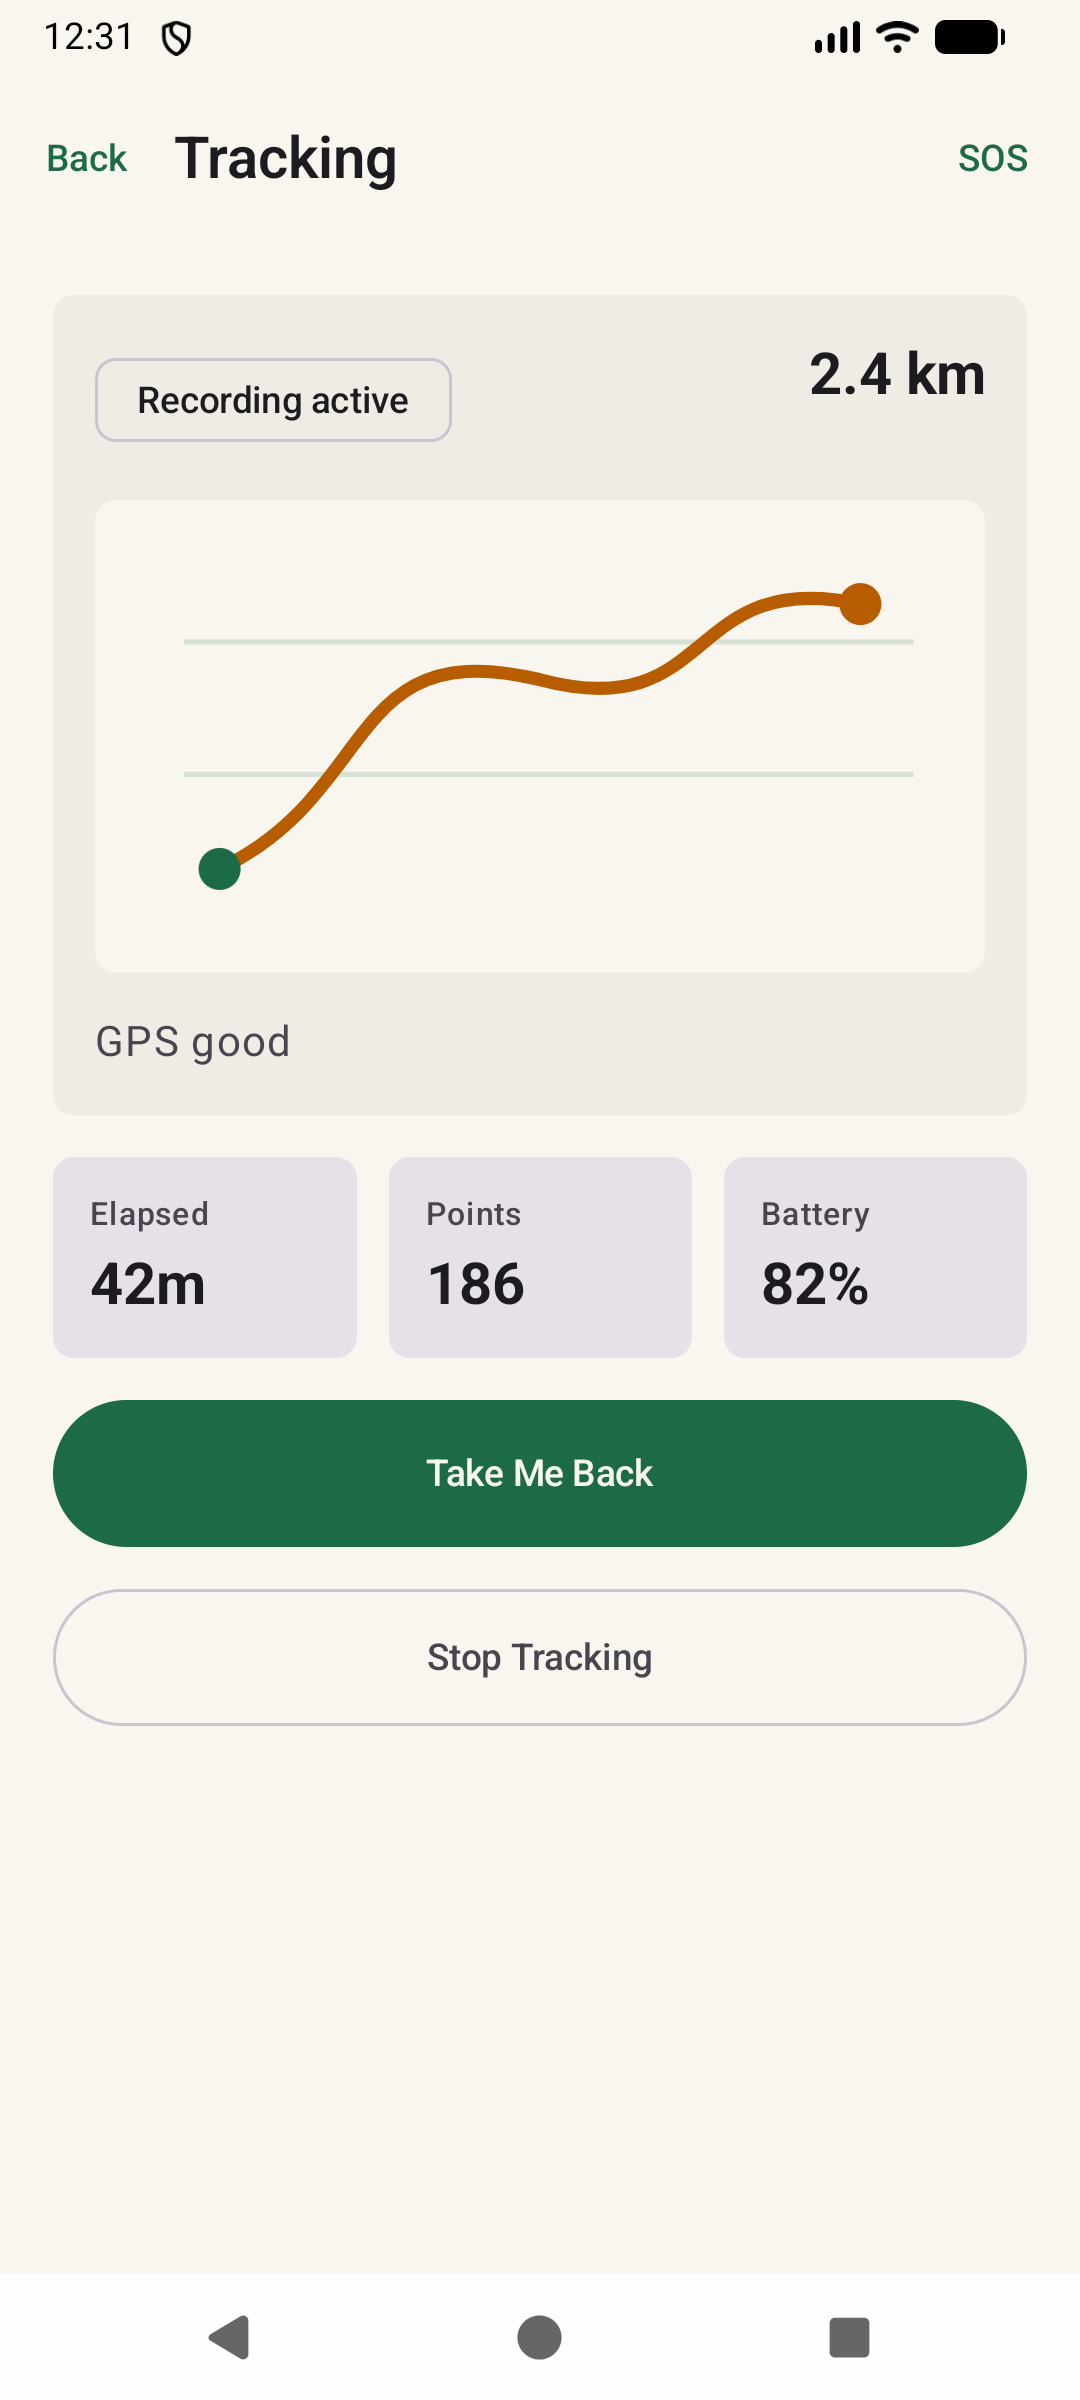
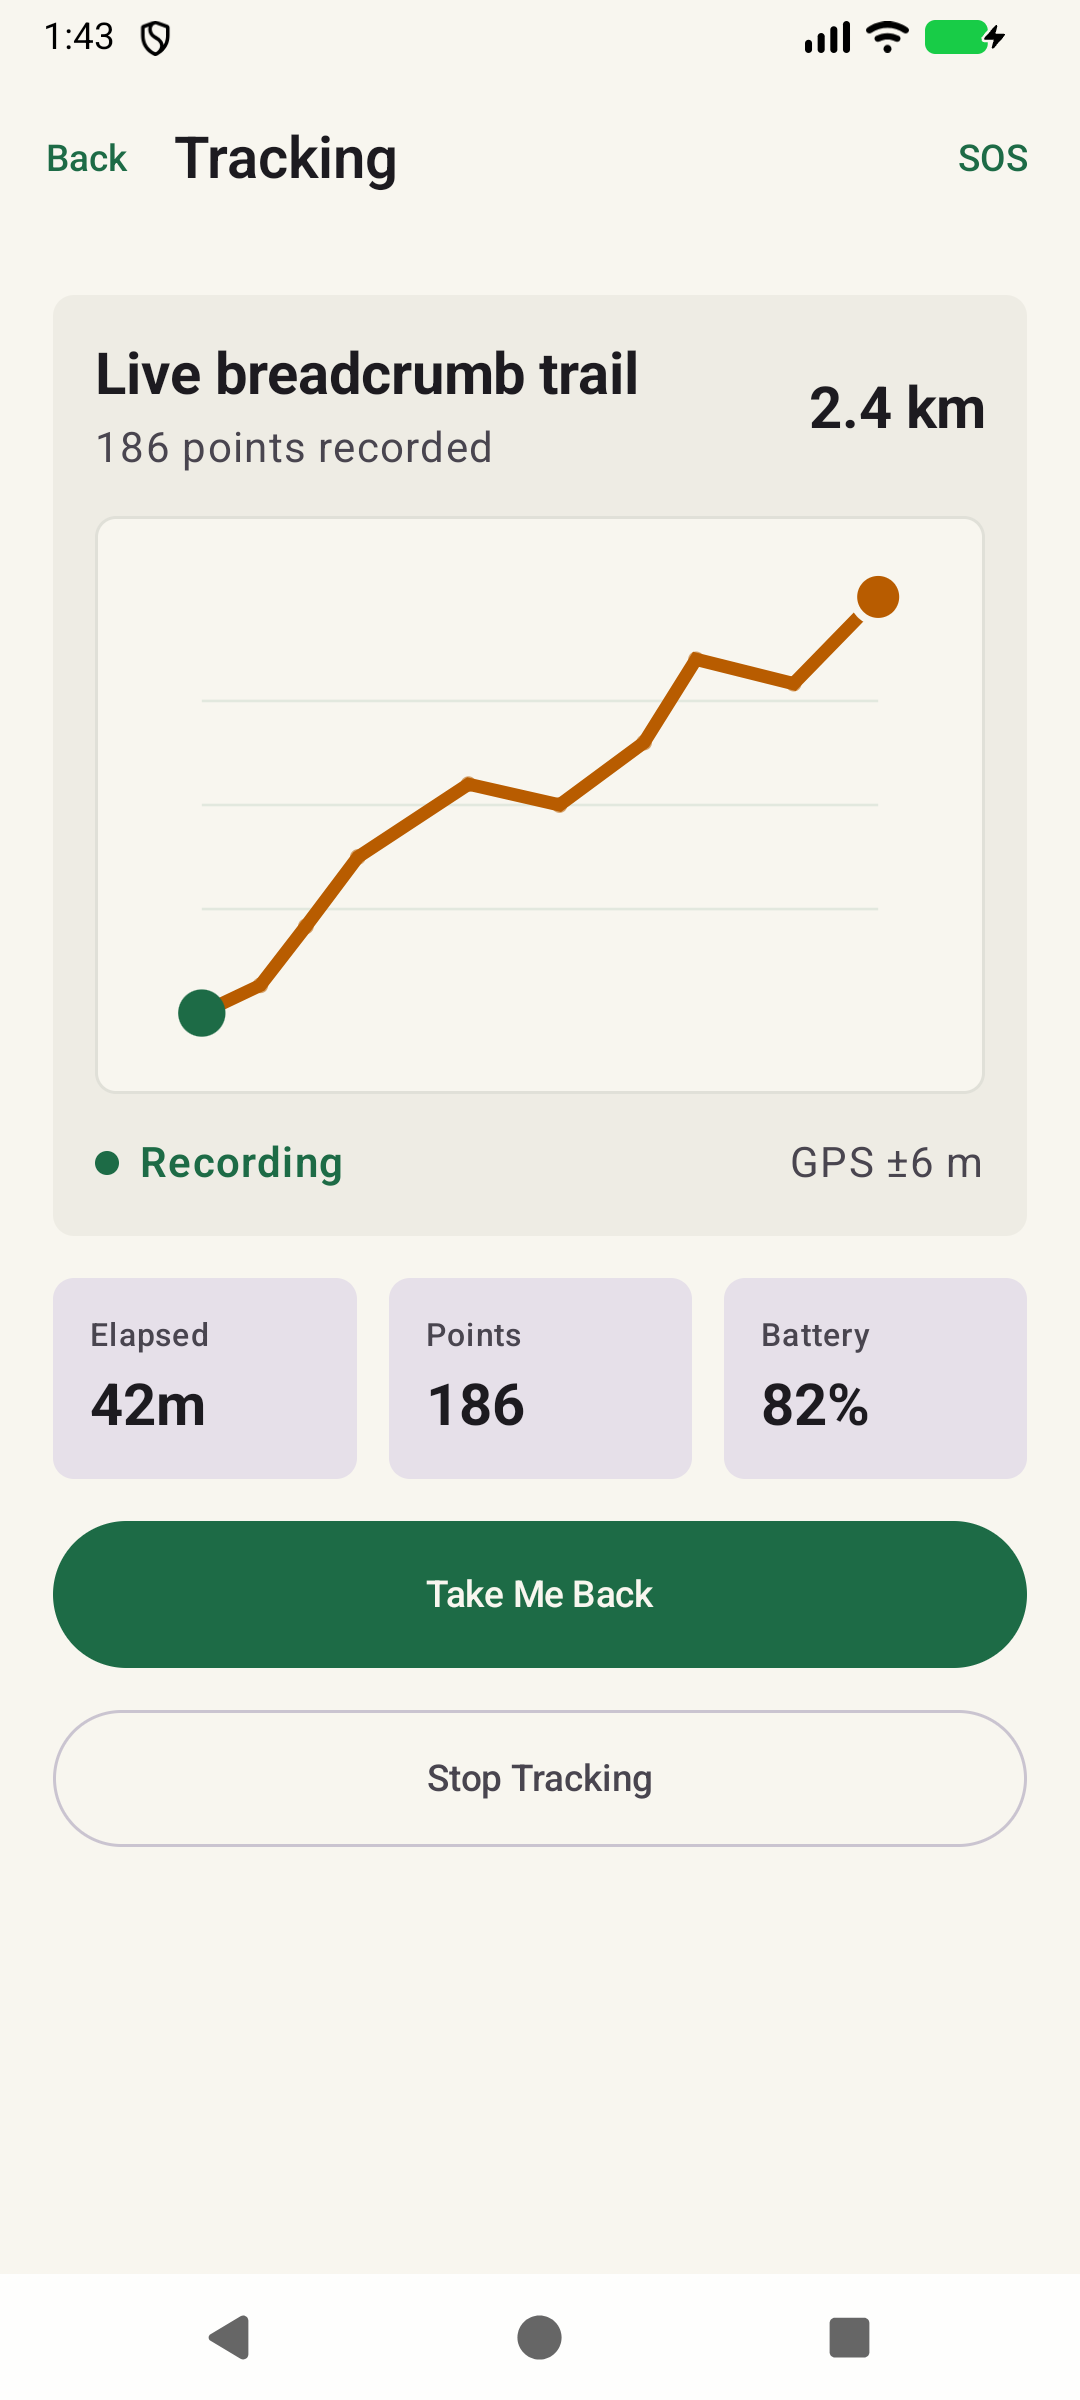
Redesign trail readiness and tracking experience

diff --git a/app/src/main/java/com/example/findway/ui/screens/AppScreens.kt b/app/src/main/java/com/example/findway/ui/screens/AppScreens.kt
@@ -4,6 +4,7 @@ package com.example.findway.ui.screens
 
 import androidx.compose.foundation.Canvas
 import androidx.compose.foundation.background
+import androidx.compose.foundation.border
 import androidx.compose.foundation.layout.Arrangement
 import androidx.compose.foundation.layout.Box
 import androidx.compose.foundation.layout.Column
@@ -47,7 +48,11 @@ import androidx.compose.ui.text.font.FontWeight
 import androidx.compose.ui.text.style.TextAlign
 import androidx.compose.ui.tooling.preview.Preview
 import androidx.compose.ui.unit.dp
+import com.example.findway.domain.TrailPoint
 import com.example.findway.theme.FindWayTheme
+import com.example.findway.ui.model.ReadinessItem
+import com.example.findway.ui.model.TrailMapState
+import kotlin.math.max
 
 @Composable
 fun HomeScreen(
@@ -64,13 +69,21 @@ fun HomeScreen(
     ) {
       item {
         Text(
-          text = "Your way back, saved before you need it.",
+          text = "Ready for the trail?",
           style = MaterialTheme.typography.headlineMedium,
           fontWeight = FontWeight.Bold,
         )
       }
       item {
-        RoutePreviewCard(status = "Offline ready", distance = "0.0 km", accuracy = "GPS waiting")
+        TrailReadinessCard(
+          items =
+            listOf(
+              ReadinessItem(label = "Precise location", value = "Checked at start", isReady = true),
+              ReadinessItem(label = "Offline recording", value = "Available", isReady = true),
+              ReadinessItem(label = "Battery", value = "82%", isReady = true),
+              ReadinessItem(label = "Trail storage", value = "Available", isReady = true),
+            ),
+        )
       }
       item {
         Button(modifier = Modifier.fillMaxWidth().height(56.dp), onClick = onStartTrail) {
@@ -85,8 +98,8 @@ fun HomeScreen(
       }
       item {
         SafetyNote(
-          title = "Safety first",
-          body = "Find Way will record breadcrumbs while tracking is active. It is a backup aid, not a replacement for maps or emergency judgment.",
+          title = "Start before you leave",
+          body = "Tracking begins only after you tap Start Trail. Confirm the recording indicator before moving away from your starting point.",
         )
       }
     }
@@ -105,7 +118,7 @@ fun TrackingScreen(
       contentPadding = PaddingValues(20.dp),
       verticalArrangement = Arrangement.spacedBy(16.dp),
     ) {
-      item { RoutePreviewCard(status = "Recording active", distance = "2.4 km", accuracy = "GPS good") }
+      item { ActiveTrailCard(state = sampleActiveTrail) }
       item {
         Row(horizontalArrangement = Arrangement.spacedBy(12.dp), modifier = Modifier.fillMaxWidth()) {
           TrailMetric(label = "Elapsed", value = "42m", modifier = Modifier.weight(1f))
@@ -195,7 +208,14 @@ fun TrailDetailScreen(
       verticalArrangement = Arrangement.spacedBy(16.dp),
     ) {
       Text("Trail $trailId", style = MaterialTheme.typography.headlineMedium, fontWeight = FontWeight.Bold)
-      RoutePreviewCard(status = "Saved route", distance = "5.6 km", accuracy = "342 breadcrumbs")
+      ActiveTrailCard(
+        state =
+          sampleActiveTrail.copy(
+            distanceLabel = "5.6 km",
+            accuracyLabel = "Saved route",
+            breadcrumbCount = 342,
+          ),
+      )
       Button(modifier = Modifier.fillMaxWidth().height(56.dp), onClick = onRetrace) { Text("Retrace Route") }
     }
   }
@@ -256,54 +276,151 @@ private fun FindWayScaffold(
 }
 
 @Composable
-private fun RoutePreviewCard(
-  status: String,
-  distance: String,
-  accuracy: String,
+private fun TrailReadinessCard(
+  items: List<ReadinessItem>,
 ) {
   Card(
     shape = RoundedCornerShape(8.dp),
     colors = CardDefaults.cardColors(containerColor = MaterialTheme.colorScheme.surfaceContainer),
     modifier = Modifier.fillMaxWidth(),
   ) {
-    Column(Modifier.padding(16.dp), verticalArrangement = Arrangement.spacedBy(14.dp)) {
-      Row(horizontalArrangement = Arrangement.SpaceBetween, modifier = Modifier.fillMaxWidth()) {
-        AssistChip(onClick = {}, label = { Text(status) })
-        Text(distance, style = MaterialTheme.typography.titleLarge, fontWeight = FontWeight.Bold)
+    Column(Modifier.padding(18.dp), verticalArrangement = Arrangement.spacedBy(16.dp)) {
+      Row(
+        modifier = Modifier.fillMaxWidth(),
+        horizontalArrangement = Arrangement.SpaceBetween,
+        verticalAlignment = Alignment.CenterVertically,
+      ) {
+        Column(verticalArrangement = Arrangement.spacedBy(2.dp)) {
+          Text("Trail readiness", style = MaterialTheme.typography.titleLarge, fontWeight = FontWeight.Bold)
+          Text("Core checks before recording", color = MaterialTheme.colorScheme.onSurfaceVariant)
+        }
+        Text("READY", color = MaterialTheme.colorScheme.primary, fontWeight = FontWeight.Bold)
       }
-      BreadcrumbMap(modifier = Modifier.fillMaxWidth().height(180.dp))
-      Text(accuracy, color = MaterialTheme.colorScheme.onSurfaceVariant)
+      items.forEachIndexed { index, item ->
+        ReadinessRow(item)
+        if (index != items.lastIndex) {
+          Box(Modifier.fillMaxWidth().height(1.dp).background(MaterialTheme.colorScheme.outline.copy(alpha = 0.18f)))
+        }
+      }
     }
   }
 }
 
 @Composable
-private fun BreadcrumbMap(modifier: Modifier = Modifier) {
+private fun ReadinessRow(item: ReadinessItem) {
+  Row(
+    modifier = Modifier.fillMaxWidth(),
+    horizontalArrangement = Arrangement.SpaceBetween,
+    verticalAlignment = Alignment.CenterVertically,
+  ) {
+    Row(horizontalArrangement = Arrangement.spacedBy(10.dp), verticalAlignment = Alignment.CenterVertically) {
+      Box(
+        Modifier.size(10.dp)
+          .background(
+            if (item.isReady) MaterialTheme.colorScheme.primary else MaterialTheme.colorScheme.tertiary,
+            CircleShape,
+          ),
+      )
+      Text(item.label, fontWeight = FontWeight.Medium)
+    }
+    Text(item.value, color = MaterialTheme.colorScheme.onSurfaceVariant)
+  }
+}
+
+@Composable
+private fun ActiveTrailCard(state: TrailMapState) {
+  Card(
+    shape = RoundedCornerShape(8.dp),
+    colors = CardDefaults.cardColors(containerColor = MaterialTheme.colorScheme.surfaceContainer),
+    modifier = Modifier.fillMaxWidth(),
+  ) {
+    Column(Modifier.padding(16.dp), verticalArrangement = Arrangement.spacedBy(14.dp)) {
+      Row(
+        horizontalArrangement = Arrangement.SpaceBetween,
+        verticalAlignment = Alignment.CenterVertically,
+        modifier = Modifier.fillMaxWidth(),
+      ) {
+        Column(verticalArrangement = Arrangement.spacedBy(2.dp)) {
+          Text("Live breadcrumb trail", style = MaterialTheme.typography.titleLarge, fontWeight = FontWeight.Bold)
+          Text("${state.breadcrumbCount} points recorded", color = MaterialTheme.colorScheme.onSurfaceVariant)
+        }
+        Text(state.distanceLabel, style = MaterialTheme.typography.titleLarge, fontWeight = FontWeight.Bold)
+      }
+      BreadcrumbMap(points = state.breadcrumbs, modifier = Modifier.fillMaxWidth().height(220.dp))
+      Row(
+        modifier = Modifier.fillMaxWidth(),
+        horizontalArrangement = Arrangement.SpaceBetween,
+        verticalAlignment = Alignment.CenterVertically,
+      ) {
+        Row(horizontalArrangement = Arrangement.spacedBy(8.dp), verticalAlignment = Alignment.CenterVertically) {
+          Box(Modifier.size(9.dp).background(MaterialTheme.colorScheme.primary, CircleShape))
+          Text("Recording", color = MaterialTheme.colorScheme.primary, fontWeight = FontWeight.SemiBold)
+        }
+        Text(state.accuracyLabel, color = MaterialTheme.colorScheme.onSurfaceVariant)
+      }
+    }
+  }
+}
+
+@Composable
+private fun BreadcrumbMap(
+  points: List<TrailPoint>,
+  modifier: Modifier = Modifier,
+) {
   val routeColor = MaterialTheme.colorScheme.tertiary
-  val pointColor = MaterialTheme.colorScheme.primary
+  val startColor = MaterialTheme.colorScheme.primary
+  val currentColor = MaterialTheme.colorScheme.tertiary
   val background = MaterialTheme.colorScheme.surface
-  Canvas(modifier = modifier.background(background, RoundedCornerShape(8.dp)).semantics { contentDescription = "Breadcrumb route preview" }) {
+  Canvas(
+    modifier =
+      modifier
+        .background(background, RoundedCornerShape(8.dp))
+        .border(1.dp, MaterialTheme.colorScheme.outline.copy(alpha = 0.18f), RoundedCornerShape(8.dp))
+        .semantics { contentDescription = "Recorded breadcrumb route with ${points.size} points" },
+  ) {
+    val horizontalPadding = size.width * 0.12f
+    val verticalPadding = size.height * 0.14f
+    val mapWidth = size.width - horizontalPadding * 2
+    val mapHeight = size.height - verticalPadding * 2
+
+    repeat(3) { index ->
+      val y = verticalPadding + mapHeight * (index + 1) / 4f
+      drawLine(
+        color = startColor.copy(alpha = 0.10f),
+        start = Offset(horizontalPadding, y),
+        end = Offset(size.width - horizontalPadding, y),
+        strokeWidth = 1.dp.toPx(),
+      )
+    }
+
+    if (points.isEmpty()) return@Canvas
+
+    val minLat = points.minOf { it.latitude }
+    val maxLat = points.maxOf { it.latitude }
+    val minLon = points.minOf { it.longitude }
+    val maxLon = points.maxOf { it.longitude }
+    val latSpan = max(maxLat - minLat, 0.000001)
+    val lonSpan = max(maxLon - minLon, 0.000001)
+    val offsets =
+      points.map { point ->
+        Offset(
+          x = horizontalPadding + (((point.longitude - minLon) / lonSpan).toFloat() * mapWidth),
+          y = verticalPadding + ((1f - ((point.latitude - minLat) / latSpan).toFloat()) * mapHeight),
+        )
+      }
     val path =
       Path().apply {
-        moveTo(size.width * 0.14f, size.height * 0.78f)
-        cubicTo(size.width * 0.32f, size.height * 0.62f, size.width * 0.28f, size.height * 0.28f, size.width * 0.50f, size.height * 0.38f)
-        cubicTo(size.width * 0.70f, size.height * 0.48f, size.width * 0.66f, size.height * 0.14f, size.width * 0.86f, size.height * 0.22f)
+        moveTo(offsets.first().x, offsets.first().y)
+        offsets.drop(1).forEach { lineTo(it.x, it.y) }
       }
-    drawLine(
-      color = pointColor.copy(alpha = 0.15f),
-      start = Offset(size.width * 0.1f, size.height * 0.3f),
-      end = Offset(size.width * 0.92f, size.height * 0.3f),
-      strokeWidth = 2.dp.toPx(),
-    )
-    drawLine(
-      color = pointColor.copy(alpha = 0.15f),
-      start = Offset(size.width * 0.1f, size.height * 0.58f),
-      end = Offset(size.width * 0.92f, size.height * 0.58f),
-      strokeWidth = 2.dp.toPx(),
-    )
+
     drawPath(path = path, color = routeColor, style = Stroke(width = 5.dp.toPx(), cap = StrokeCap.Round))
-    drawCircle(color = pointColor, radius = 8.dp.toPx(), center = Offset(size.width * 0.14f, size.height * 0.78f))
-    drawCircle(color = routeColor, radius = 8.dp.toPx(), center = Offset(size.width * 0.86f, size.height * 0.22f))
+    offsets.dropLast(1).forEach { offset ->
+      drawCircle(color = routeColor.copy(alpha = 0.55f), radius = 3.dp.toPx(), center = offset)
+    }
+    drawCircle(color = startColor, radius = 9.dp.toPx(), center = offsets.first())
+    drawCircle(color = background, radius = 11.dp.toPx(), center = offsets.last())
+    drawCircle(color = currentColor, radius = 8.dp.toPx(), center = offsets.last())
   }
 }
 
@@ -487,6 +604,26 @@ private val sampleTrails =
     SampleTrail("morning-ridge", "Morning Ridge", "5.6 km, 342 breadcrumbs"),
     SampleTrail("camp-loop", "Camp Loop", "1.8 km, 104 breadcrumbs"),
     SampleTrail("wadi-lookout", "Wadi Lookout", "3.2 km, 218 breadcrumbs"),
+  )
+
+private val sampleActiveTrail =
+  TrailMapState(
+    breadcrumbs =
+      listOf(
+        TrailPoint(25.28510, 51.53010),
+        TrailPoint(25.28518, 51.53028),
+        TrailPoint(25.28535, 51.53042),
+        TrailPoint(25.28555, 51.53058),
+        TrailPoint(25.28576, 51.53092),
+        TrailPoint(25.28570, 51.53120),
+        TrailPoint(25.28588, 51.53146),
+        TrailPoint(25.28612, 51.53162),
+        TrailPoint(25.28605, 51.53192),
+        TrailPoint(25.28630, 51.53218),
+      ),
+    distanceLabel = "2.4 km",
+    accuracyLabel = "GPS ±6 m",
+    breadcrumbCount = 186,
   )
 
 @Preview(showBackground = true)

diff --git a/app/src/androidTest/java/com/example/findway/ui/screens/TrackingScreenTest.kt b/app/src/androidTest/java/com/example/findway/ui/screens/TrackingScreenTest.kt
@@ -1,0 +1,31 @@
+package com.example.findway.ui.screens
+
+import androidx.activity.ComponentActivity
+import androidx.compose.ui.test.hasContentDescription
+import androidx.compose.ui.test.junit4.createAndroidComposeRule
+import androidx.compose.ui.test.onNodeWithText
+import com.example.findway.theme.FindWayTheme
+import org.junit.Before
+import org.junit.Rule
+import org.junit.Test
+
+class TrackingScreenTest {
+  @get:Rule val composeTestRule = createAndroidComposeRule<ComponentActivity>()
+
+  @Before
+  fun setup() {
+    composeTestRule.setContent {
+      FindWayTheme {
+        TrackingScreen(onBack = {}, onTakeMeBack = {}, onOpenSos = {})
+      }
+    }
+  }
+
+  @Test
+  fun trackingScreen_showsRecordedBreadcrumbState() {
+    composeTestRule.onNodeWithText("Live breadcrumb trail").assertExists()
+    composeTestRule.onNodeWithText("186 points recorded").assertExists()
+    composeTestRule.onNode(hasContentDescription("Recorded breadcrumb route with 10 points")).assertExists()
+    composeTestRule.onNodeWithText("Take Me Back").assertExists()
+  }
+}

diff --git a/app/src/androidTest/java/com/example/findway/ui/screens/HomeScreenTest.kt b/app/src/androidTest/java/com/example/findway/ui/screens/HomeScreenTest.kt
@@ -27,6 +27,8 @@ class HomeScreenTest {
 
   @Test
   fun homeScreen_showsPrimarySafetyActions() {
+    composeTestRule.onNodeWithText("Trail readiness").assertExists()
+    composeTestRule.onNodeWithText("Precise location").assertExists()
     composeTestRule.onNodeWithText("Start Trail").assertExists()
     composeTestRule.onNodeWithText("Saved Trails").assertExists()
     composeTestRule.onNodeWithText("SOS").assertExists()

diff --git a/app/src/main/java/com/example/findway/ui/model/TrailUiModels.kt b/app/src/main/java/com/example/findway/ui/model/TrailUiModels.kt
@@ -1,0 +1,16 @@
+package com.example.findway.ui.model
+
+import com.example.findway.domain.TrailPoint
+
+data class ReadinessItem(
+  val label: String,
+  val value: String,
+  val isReady: Boolean,
+)
+
+data class TrailMapState(
+  val breadcrumbs: List<TrailPoint>,
+  val distanceLabel: String,
+  val accuracyLabel: String,
+  val breadcrumbCount: Int,
+)

diff --git a/README.md b/README.md
@@ -29,7 +29,8 @@ Implemented:
 - Single-activity, edge-to-edge application
 - Type-safe, saveable Navigation 3 routes
 - Home, Tracking, Return Mode, Saved Trails, Trail Detail, SOS, and Settings screens
-- Initial breadcrumb route visualization
+- Pre-trail readiness dashboard for location, offline recording, battery, and storage
+- Data-driven breadcrumb route visualization with start and current-position markers
 - Bearing-driven compass arrow toward the next return breadcrumb
 - Pure Kotlin return-progress calculation
 - Unit and instrumented Compose tests
@@ -122,6 +123,8 @@ app/src/main/java/com/example/findway/
 |-- domain/
 |   `-- TrailProgress.kt         # Breadcrumb return-progress logic
 |-- theme/                       # Material 3 colors, typography, and theme
+|-- ui/model/
+|   `-- TrailUiModels.kt         # Readiness and breadcrumb-map UI state
 `-- ui/screens/
     `-- AppScreens.kt            # Current Compose screen prototypes
 
@@ -185,7 +188,8 @@ Current coverage includes:
 - Empty-route return behavior
 - Selecting the previous breadcrumb from the end of a recorded route
 - Off-route threshold detection
-- Presence of the Home screen's primary safety actions
+- Presence of the Home screen's readiness state and primary safety actions
+- Presence of active tracking status, recorded-point count, breadcrumb route, and return action
 
 ## Development Roadmap
 
